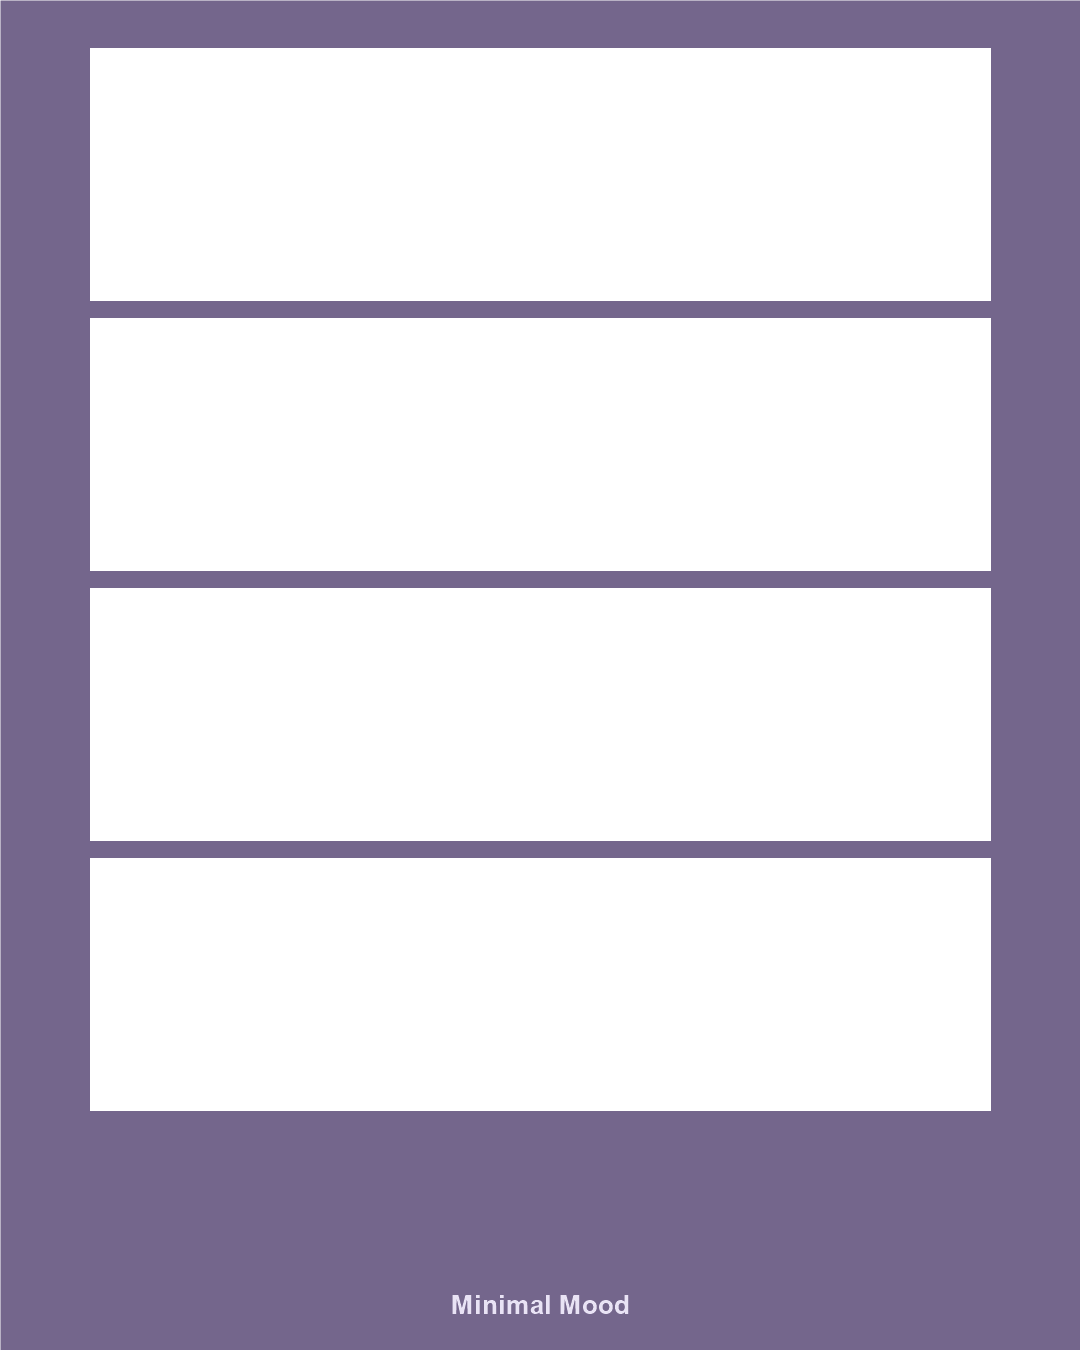
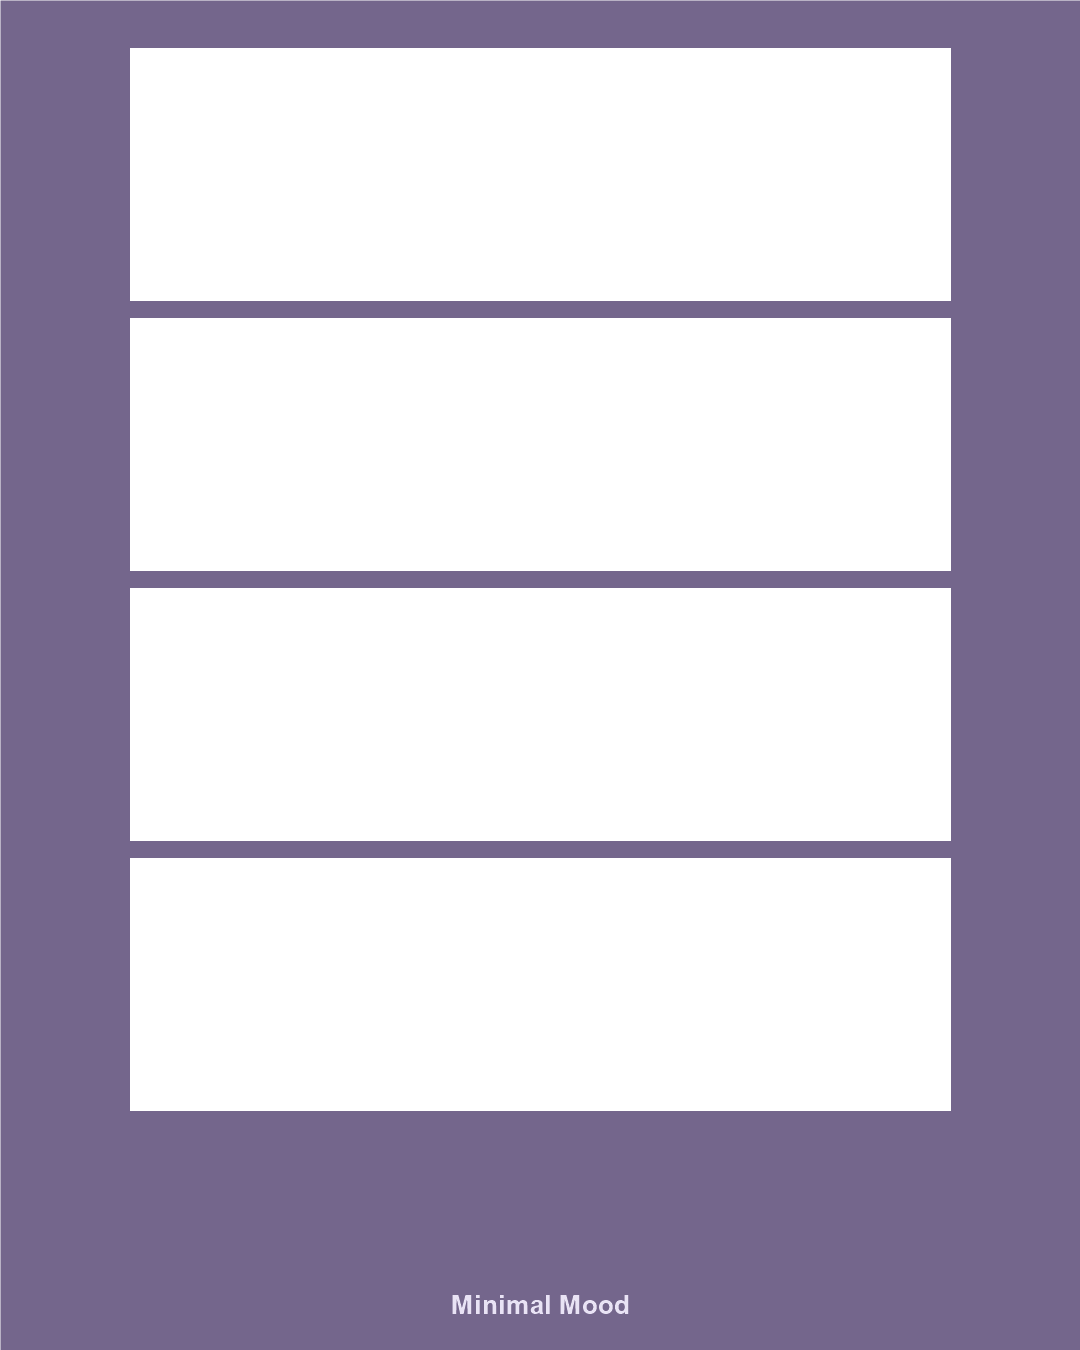
Match capture guide to frame output

Changed region(s): [[0.0611, 0.0311, 0.1222, 0.84], [0.8556, 0.0311, 0.9167, 0.84]]

diff --git a/src/pages/Capture.tsx b/src/pages/Capture.tsx
@@ -1,7 +1,8 @@
-import { useEffect, useRef, useState } from "react";
+import { useEffect, useMemo, useRef, useState } from "react";
 import { useNavigate } from "react-router-dom";
 import Button from "../components/Button";
 import { captureVideoFrame, startPreferredCamera, stopCamera } from "../lib/camera";
+import { TEMPLATES } from "../lib/assets";
 import { usePhotoboothStore } from "../store/usePhotoboothStore";
 import { trackEvent } from "../lib/analytics";
 
@@ -12,6 +13,7 @@ export default function Capture() {
   const navigate = useNavigate();
   const setPhotos = usePhotoboothStore((state) => state.setPhotos);
   const resetPhotos = usePhotoboothStore((state) => state.resetPhotos);
+  const selectedTemplateId = usePhotoboothStore((state) => state.selectedTemplateId);
 
   const videoRef = useRef<HTMLVideoElement | null>(null);
   const streamRef = useRef<MediaStream | null>(null);
@@ -21,6 +23,11 @@ export default function Capture() {
   const [countdown, setCountdown] = useState(0);
   const [captureIndex, setCaptureIndex] = useState(0);
   const [isCapturing, setIsCapturing] = useState(false);
+
+  const template = useMemo(
+    () => TEMPLATES.find((item) => item.id === selectedTemplateId) ?? TEMPLATES[0],
+    [selectedTemplateId],
+  );
 
   useEffect(() => {
     void requestCamera();
@@ -117,7 +124,10 @@ export default function Capture() {
 
       {/* Camera */}
       <div className="capture-camera-wrap">
-        <video ref={videoRef} autoPlay muted playsInline />
+        <div className="capture-stage">
+          <video ref={videoRef} autoPlay muted playsInline />
+          <img className="capture-frame-overlay" src={template.frameSrc} alt="" aria-hidden="true" />
+        </div>
 
         {!cameraReady && !permissionError && (
           <div className="capture-mask">

diff --git a/src/styles.css b/src/styles.css
@@ -366,7 +366,24 @@ body {
 .capture-camera-wrap {
   flex: 1;
   position: relative;
+  display: flex;
+  align-items: center;
+  justify-content: center;
   overflow: hidden;
+  padding: 16px;
+  background:
+    radial-gradient(circle at top, rgba(230, 60, 131, 0.18), transparent 46%),
+    #0d0a10;
+}
+
+.capture-stage {
+  position: relative;
+  width: min(100%, 380px);
+  aspect-ratio: 4 / 5;
+  border-radius: 24px;
+  overflow: hidden;
+  background: #160f15;
+  box-shadow: 0 20px 60px rgba(0, 0, 0, 0.38);
 }
 
 .capture-camera-wrap video {
@@ -374,6 +391,15 @@ body {
   height: 100%;
   object-fit: cover;
   transform: scaleX(-1);
+}
+
+.capture-frame-overlay {
+  position: absolute;
+  inset: 0;
+  width: 100%;
+  height: 100%;
+  object-fit: cover;
+  pointer-events: none;
 }
 
 .capture-mask {

diff --git a/src/lib/canvasRender.ts b/src/lib/canvasRender.ts
@@ -45,7 +45,7 @@ function getTemplateLayout(templateId: string): TemplateLayout {
       panelFill: "#E9E1D7",
       panelBorder: "#D75A8E",
       slotTop: 48,
-      slotWidth: 900,
+      slotWidth: 820,
       slotHeight: 252,
       slotGap: 18,
       watermarkWidth: 176,
@@ -64,7 +64,7 @@ function getTemplateLayout(templateId: string): TemplateLayout {
     panelFill: "",
     panelBorder: "",
     slotTop: 48,
-    slotWidth: 900,
+    slotWidth: 820,
     slotHeight: 252,
     slotGap: 18,
     watermarkWidth: 190,
